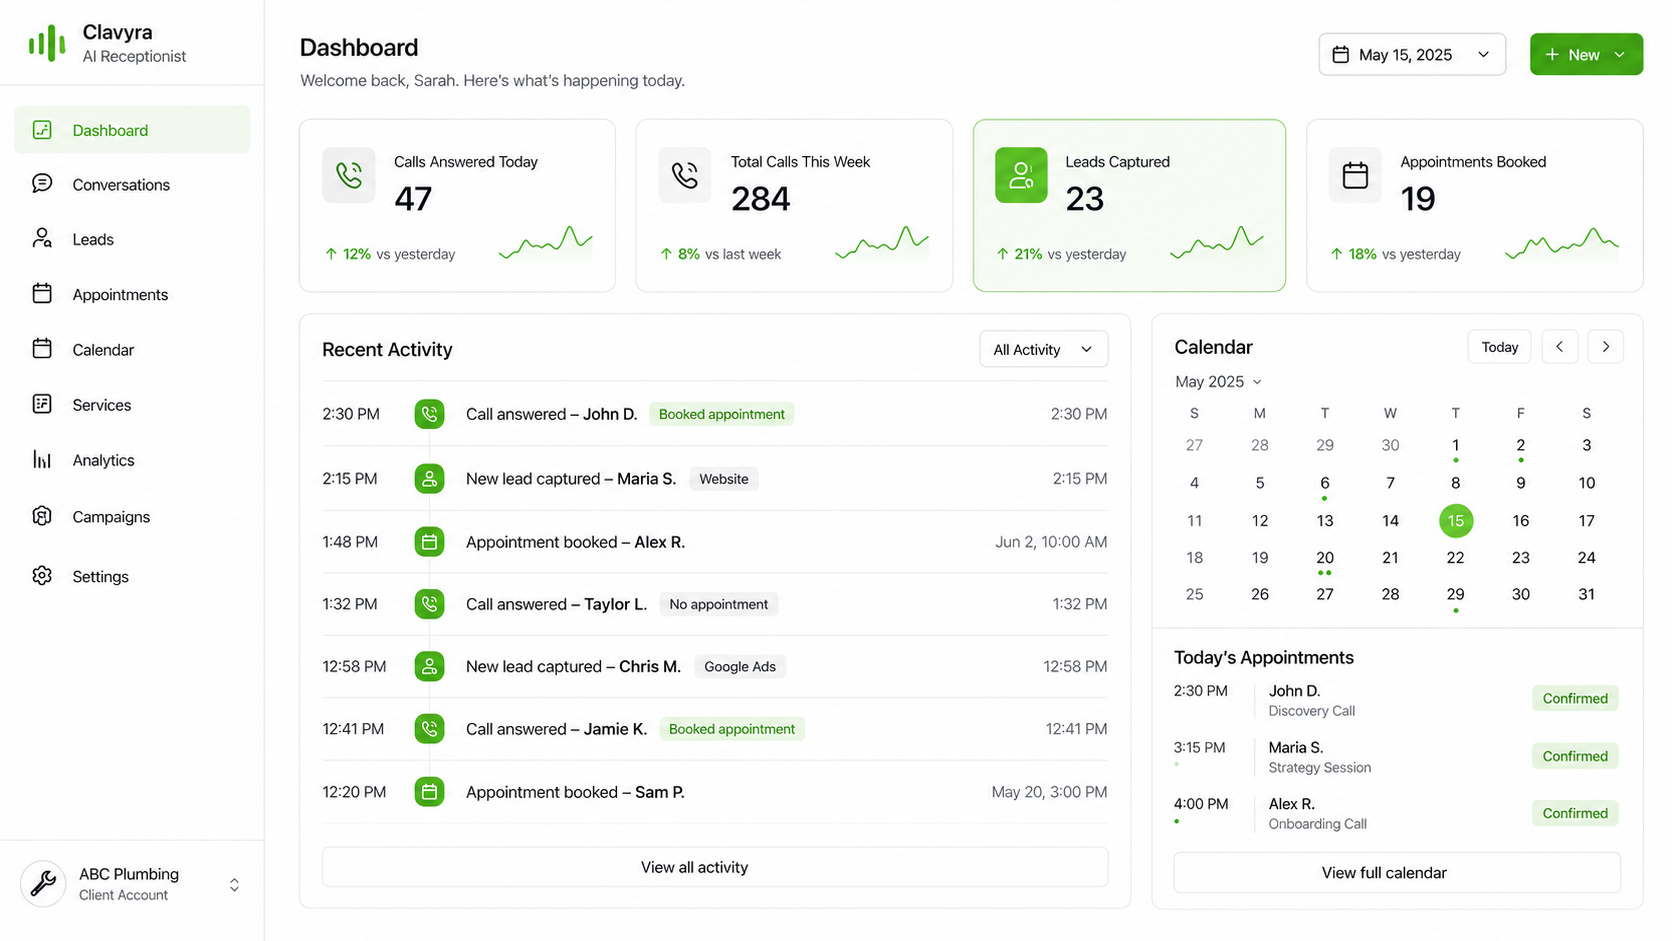
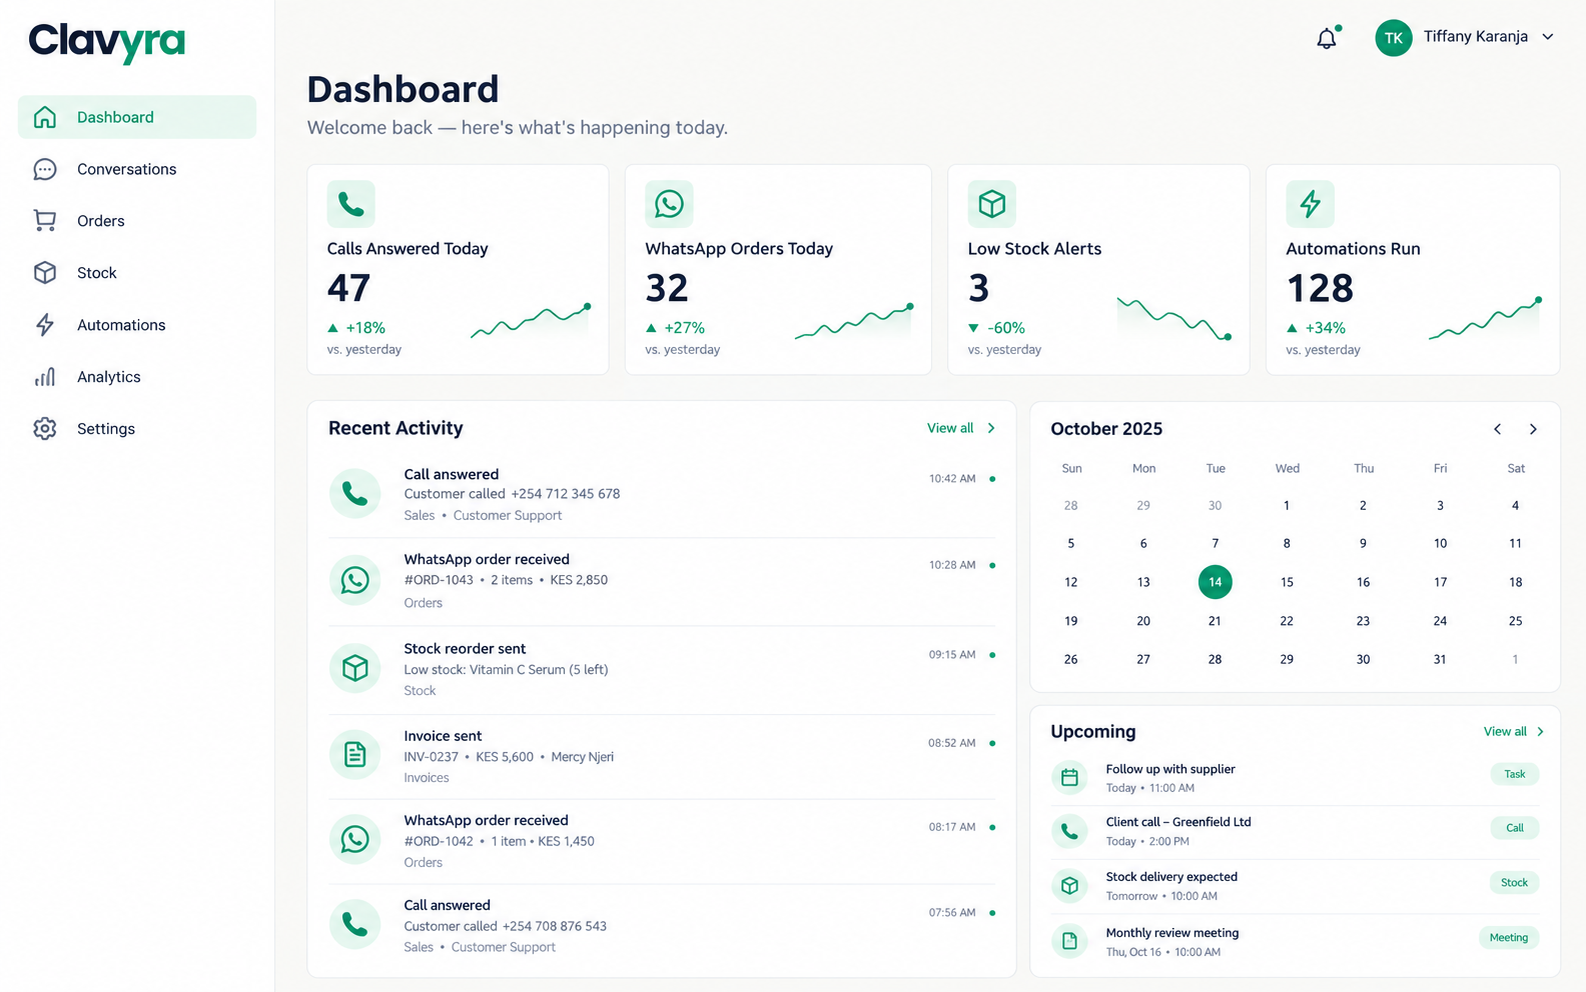
Replace hero dashboard image with systems-wide mockup
Old image was branded "AI Receptionist" with only call/lead/appointment
metrics. New one shows generic Clavyra branding with a blend of metrics
across services (calls, WhatsApp orders, stock alerts, automations run),
matching the "systems" positioning instead of one service.

diff --git a/index.html b/index.html
@@ -272,7 +272,7 @@
       <!-- Right: dashboard image (45%) -->
       <div class="hero-img-col" style="flex:0 0 45%;max-width:45%;display:flex;justify-content:flex-end;align-items:center;">
         <img src="/assets/hero-dashboard.png"
-             alt="Clavyra AI receptionist dashboard showing calls answered, leads captured, and appointments booked"
+             alt="Clavyra dashboard showing calls answered, WhatsApp orders, low stock alerts, and automations run"
              style="max-width:520px;width:100%;border-radius:12px;box-shadow:0 25px 50px rgba(0,0,0,0.15);transform:rotate(2deg);animation:hero-float 5s ease-in-out infinite;"
              loading="eager" />
       </div>
